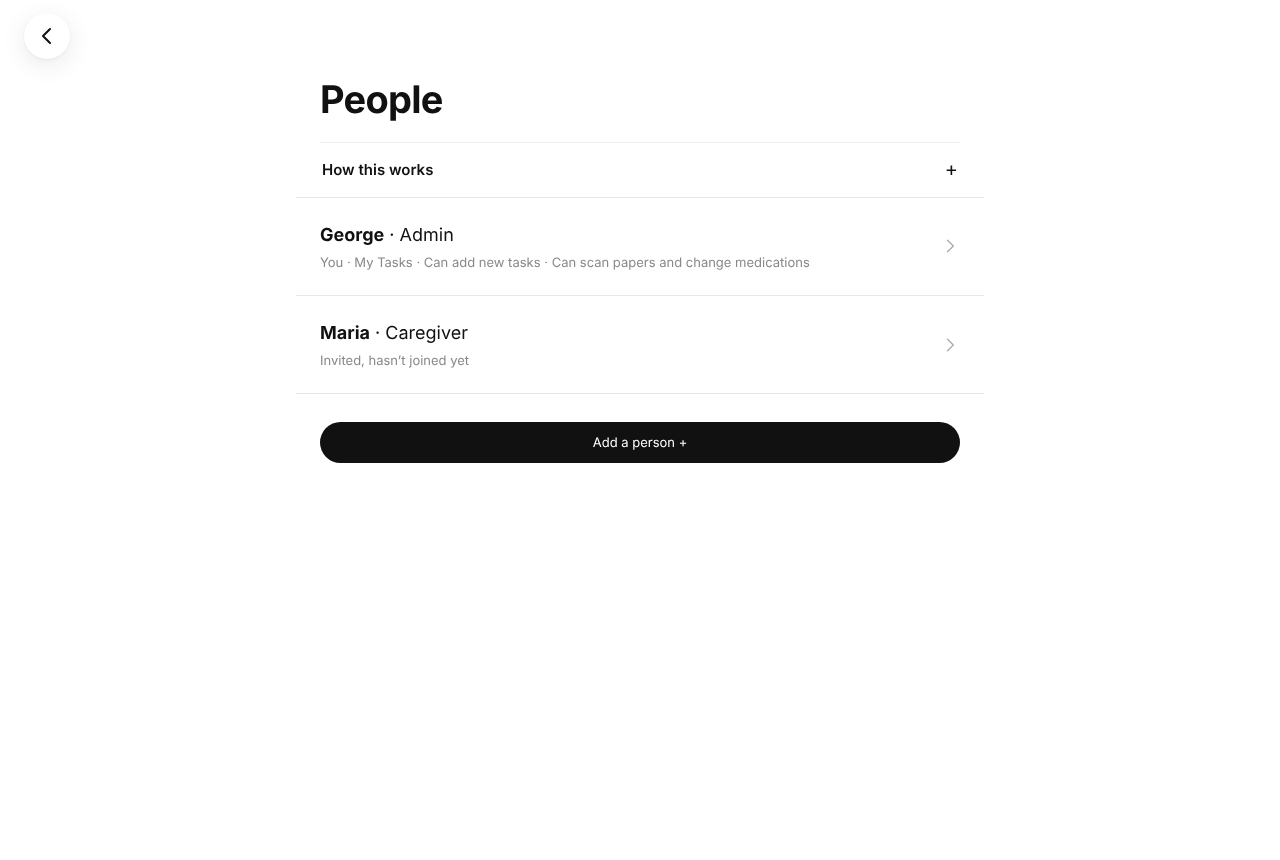
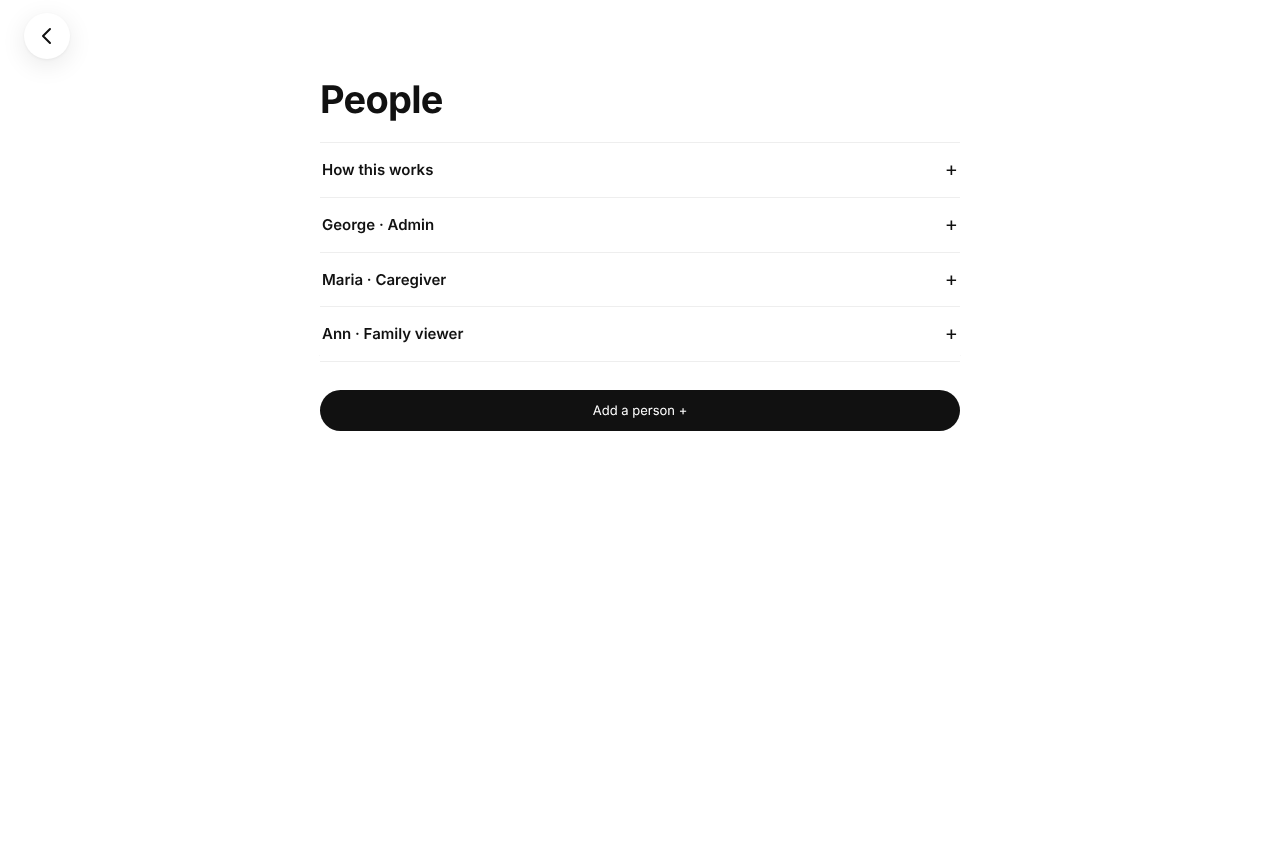
People: each person folds open like How this works
Their role in plain words, what else they can do and where their invite
stands, with Change or remove for admins.

Claude-Session: https://claude.ai/code/session_01VR3ER6vT6PT8rhbUvLo5rQ

Changed region(s): [[0.25, 0.4535, 0.75, 0.5442], [0.25, 0.2419, 0.625, 0.3326], [0.25, 0.3628, 0.375, 0.4233]]

diff --git a/team.js b/team.js
@@ -8,10 +8,13 @@ let team={state:'idle',data:null,error:''},personId='',invite=null;
 const showPhone=p=>/^\+1\d{10}$/.test(p)?`(${p.slice(2,5)}) ${p.slice(5,8)}-${p.slice(8)}`:p;
 const teamAdmin=()=>team.data?.me.role==='admin';
 async function loadTeam(){team={...team,state:'loading'};try{team={state:'done',data:await Account.api('GET','/api/team'),error:''}}catch(err){team={state:'error',data:team.data,error:err.message}}if(['people','person','person-add'].includes(view))render()}
-const permLine=m=>m.role==='viewer'?'':PERM_NAMES.filter(([k])=>m.perms[k]&&!(m.role==='caregiver'&&k==='tasks')).map(([,l])=>l.replace(/: .*/,'')).join(' · ');
-function personRow(m){const sub=[m.you?'You':m.owner?'Set up this care team':'',m.status==='invited'?'Invited, hasn’t joined yet':'',permLine(m)].filter(Boolean).join(' · ');const inner=`<span><strong>${esc(m.name)}</strong> · ${ROLE_NAMES[m.role]}${sub?`<small>${esc(sub)}</small>`:''}</span>`;return teamAdmin()&&m.id!=='owner'?`<button class="settings-row person-row" data-person="${esc(m.id)}">${inner}${menuIcon(menuIcons.chevron)}</button>`:`<div class="settings-row person-row">${inner}</div>`}
+/* Each person folds open, like How this works: their role in plain words, where their invite stands and what else they can
+   do. Admins change their role or remove them from there. */
+const PERM_SAY={tasks:'do the care tasks in My Tasks',addTasks:'add new tasks',meds:'scan papers and change medications'};
+const alsoLine=m=>{const l=m.role==='viewer'?[]:Object.keys(PERM_SAY).filter(k=>m.perms[k]&&!(m.role==='caregiver'&&k==='tasks')).map(k=>PERM_SAY[k]);return l.length?`Can also ${l.length>1?l.slice(0,-1).join(', ')+' and '+l[l.length-1]:l[0]}.`:''};
+function personRow(m){const lines=[m.you?'This is you.':m.owner?'Set up this care team.':'',ROLE_HELP[m.role],alsoLine(m),m.status==='invited'?'Invited, hasn’t joined yet.':''].filter(Boolean);return `<details class="take-more"><summary>${esc(m.name)} · ${ROLE_NAMES[m.role]}</summary><div class="today-help">${lines.map(l=>`<p>${esc(l)}</p>`).join('')}${teamAdmin()&&m.id!=='owner'?`<button class="outline-button people-done" data-person="${esc(m.id)}">Change or remove</button>`:''}</div></details>`}
 function peoplePage(){const d=team.data;if(!d)return `<section class="sub-page prose">${subHeader('People','settings')}<p class="sub-note">${esc(team.state==='error'?team.error:'Loading…')}</p></section>`;
-const me=d.members.find(m=>m.you);return `<section class="sub-page settings-page">${subHeader('People','settings')}<details class="take-more" style="border-bottom:0"><summary>How this works</summary><div class="today-help"><p>Everyone on this care team sees the same medications, daily care report and photos.${teamAdmin()?' Add family and paid caregivers, and choose what each person can do.':''}</p></div></details><div class="settings-list">${d.members.map(personRow).join('')}</div>${teamAdmin()?d.plan&&!d.plan.canAdd?`<p class="sub-note">${d.plan.status==='lapsed'?'This family’s plan has ended, so nobody new can be added. Everyone here still sees everything.':d.plan.tier?`The ${esc(d.plan.tier)} plan is full. Upgrade to add someone.`:'This care team is full.'}</p><button class="primary people-add" data-menu-go="subscription">${d.plan.status==='lapsed'?'Pay for the plan':'See plans'}</button>`:'<button class="primary people-add" data-menu-go="person-add">Add a person +</button>':''}${me&&!me.owner?'<button class="danger-button" id="team-leave">Leave this care team</button>':''}</section>`}
+const me=d.members.find(m=>m.you);return `<section class="sub-page settings-page">${subHeader('People','settings')}<details class="take-more" style="border-bottom:0"><summary>How this works</summary><div class="today-help"><p>Everyone on this care team sees the same medications, daily care report and photos.${teamAdmin()?' Add family and paid caregivers, and choose what each person can do.':''}</p></div></details><div class="people-list">${d.members.map(personRow).join('')}</div>${teamAdmin()?d.plan&&!d.plan.canAdd?`<p class="sub-note">${d.plan.status==='lapsed'?'This family’s plan has ended, so nobody new can be added. Everyone here still sees everything.':d.plan.tier?`The ${esc(d.plan.tier)} plan is full. Upgrade to add someone.`:'This care team is full.'}</p><button class="primary people-add" data-menu-go="subscription">${d.plan.status==='lapsed'?'Pay for the plan':'See plans'}</button>`:'<button class="primary people-add" data-menu-go="person-add">Add a person +</button>':''}${me&&!me.owner?'<button class="danger-button" id="team-leave">Leave this care team</button>':''}</section>`}
 function roleFields(role,perms){return `<fieldset class="role-pick"><legend>What they’ll do</legend>${['viewer','caregiver','admin'].map(r=>`<label class="packing-row"><input type="radio" name="role" value="${r}"${r===role?' checked':''}><span><strong>${ROLE_NAMES[r]}</strong><small>${ROLE_HELP[r]}</small></span></label>`).join('')}</fieldset><fieldset class="role-perms"><legend>They can also</legend>${PERM_NAMES.map(([k,l])=>`<label class="packing-row"><input type="checkbox" name="${k}"${perms[k]?' checked':''}><span>${l}</span></label>`).join('')}</fieldset>`}
 /* Ticks the role decides are fixed; the rest are the admin's choice. Viewers have none. */
 function syncPerms(form){const role=form.elements.role.value,fixed={viewer:{tasks:false,addTasks:false,meds:false},caregiver:{tasks:true},admin:{addTasks:true,meds:true}}[role]||{};const box=form.querySelector('.role-perms');box.hidden=role==='viewer';PERM_NAMES.forEach(([k])=>{const c=form.elements[k];if(k in fixed){c.checked=fixed[k];c.disabled=true}else c.disabled=false})}

diff --git a/sw.js b/sw.js
@@ -1,6 +1,6 @@
 /* Adltrack service worker: keeps the app shell for offline starts, shows daily reminders sent by Web Push while the app is
    closed with their action buttons, and opens the item's Return step when one is tapped. Account data (/api/) is never cached here. */
-const SHELL = 'returnly-shell-v19';
+const SHELL = 'returnly-shell-v20';
 const SHELL_FILES = ['app.html', 'index.html', 'signin.html', 'signup.html', 'forgot.html', 'reset.html', 'email.html', 'join.html', 'style.css', 'on.css', 'klarna.css', 'precision.css', 'guided.css', 'home.css', 'menu.css', 'mobile.css', 'landing.css', 'type.css',
   'core.js', 'nudge.js', 'account.js', 'auth.js', 'app.js', 'features.js', 'klarna.js', 'precision.js', 'guided.js', 'home.js', 'schedule.js', 'refills.js', 'menu.js', 'push.js', 'remind.js', 'today.js', 'report.js', 'team.js', 'plan.js', 'patients.js', 'plus.js', 'can.js', 'landing.js', 'oracle.woff2', 'assets/roboto-serif-light.woff2', 'assets/inter-var.woff2',
   'manifest.webmanifest', 'assets/icon-192.png', 'assets/icon-512.png', 'assets/apple-touch-icon.png'];

diff --git a/menu.css b/menu.css
@@ -66,6 +66,9 @@ dialog.menu-drawer{width:min(72vw,280px)}
 .person-row span{text-align:left}.person-row small{display:block;font-size:13px;color:#888;margin-top:5px;line-height:1.4}
 div.person-row{cursor:default}div.person-row:hover{background:none}
 .people-add{margin-top:28px;width:100%}
+.people-list{border-bottom:1px solid #eee}
+.people-list .take-more{margin-top:0;border-bottom:0}
+.people-list .people-done{margin:4px 0 6px}
 .role-pick,.role-perms{border:0;padding:0;margin:26px 0 0}.role-pick legend,.role-perms legend{font-size:12px;padding:0;margin-bottom:4px}
 .guided-form .role-pick label,.guided-form .role-perms label{display:flex;gap:12px;align-items:flex-start;font-size:15px;color:#111;margin:16px 0;cursor:pointer}.guided-form .role-pick input,.guided-form .role-perms input{width:18px;height:18px;margin:2px 0 0;padding:0;flex:none;accent-color:#111}.guided-form .role-perms input:disabled+span{color:#888}
 .role-pick small{display:block;font-size:13px;color:#777;margin-top:4px;line-height:1.45;font-weight:400}
